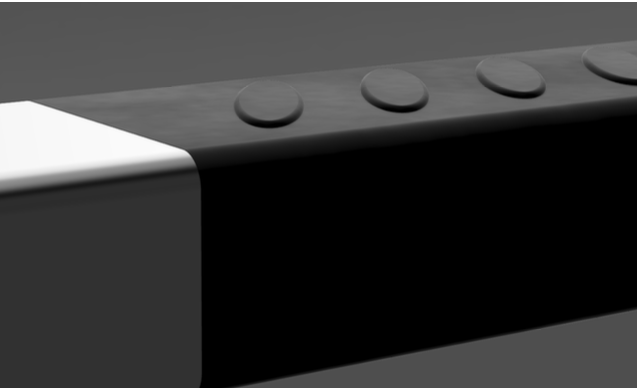
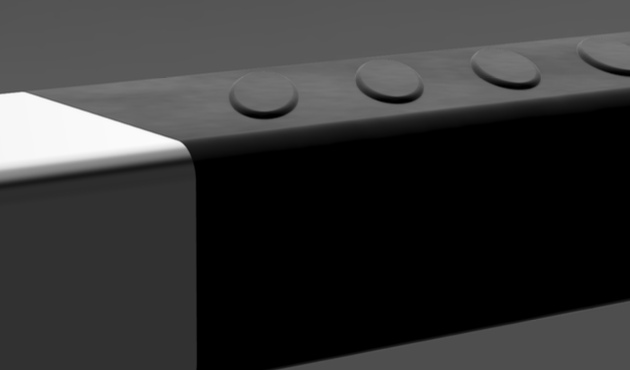
changes

diff --git a/_projects/Materials.md b/_projects/Materials.md
@@ -23,13 +23,21 @@ image: /assets/images/MM16.png
 <div>
 
 <img src="{{ site.baseurl }}/assets/images/MM3.png" style="width:300px; border-radius:10px;" />
-<img src="{{ site.baseurl }}/assets/images/MM4.png" style="width:300px; border-radius:10px;" />
-<img src="{{ site.baseurl }}/assets/images/MM13.png" style="width:300px; border-radius:10px;" />
 <img src="{{ site.baseurl }}/assets/images/MM14.png" style="width:300px; border-radius:10px;" />
+<img src="{{ site.baseurl }}/assets/images/MM13.png" style="width:300px; border-radius:10px;" />
+<img src="{{ site.baseurl }}/assets/images/MM4.png" style="width:300px; border-radius:10px;" />
 
 <div>
-<p>XXXXX</p> 
+<p>To improve user experience and the aesthetics of the design, a grip design can be added to the handle. Its material can be changed to be a high stiffness rubber such as EPDM (Ethylene Propylene Diene Monomer) or Neoprene. This material is meant to provide more grip comfort. The design could have the handle part entirely made out of rubber or have a center of steel alloy like the
+arm then wrapped with a layer of rubber. In addition to those changes, fillets have been added to the edges of the arm and the handle. Those fillets serve both aesthetic and safety purposes, as the rounded shape is not only more pleasing to the eye but also a
+great way to prevent injuries or pain from holding the tool.</p> 
 </div>
 
-<img src="{{ site.baseurl }}/assets/images/MM15.png" style="width:300px; border-radius:10px;" />
+<img src="{{ site.baseurl }}/assets/images/MM15.png" 
+
+<div>
+<p>The code above was used for all hand calculations, both for that baseline design and for the improved design.</p> 
+</div>
+
+style="width:300px; border-radius:10px;" />
 
